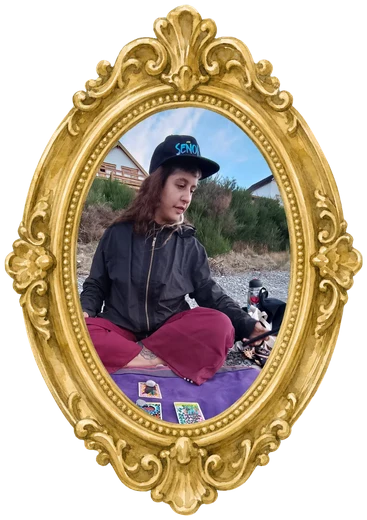
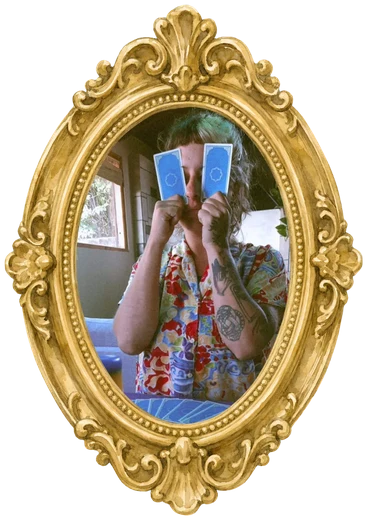
Bios finales y botón debajo de Anotarme

Changed region(s): [[0.2098, 0.1846, 0.8093, 0.8308]]

diff --git a/index.html b/index.html
@@ -86,7 +86,8 @@ footer a{color:var(--marino)}
 footer{display:flex;align-items:center;justify-content:flex-end;gap:20px}
 footer .iso{width:96px;height:96px;flex:none}
 /* formulario */
-.acargo{font-family:'Special Elite',monospace;font-size:16px;background:none;border:0;padding:0;margin:4px 0 2px;color:inherit;text-decoration:underline;text-underline-offset:3px;cursor:pointer;text-align:left}
+.accion{display:flex;flex-direction:column;align-items:center;gap:12px}
+.acargo{font-family:'Special Elite',monospace;font-size:15px;line-height:1.35;background:none;border:0;padding:0;color:inherit;text-decoration:underline;text-underline-offset:3px;cursor:pointer;text-align:center}
 .acargo:focus-visible{outline:3px solid var(--dorado);outline-offset:3px}
 .bios h3{margin-bottom:6px}
 .bio{display:grid;grid-template-columns:150px 1fr;gap:20px;align-items:center;margin-top:22px}
@@ -126,7 +127,7 @@ input[type=text],input[type=email],input[type=tel]{width:100%;font:16px Archivo,
   .ronda{grid-template-columns:1fr;gap:10px;padding:14px 12px}
   .fecha{display:flex;gap:10px;align-items:baseline;text-align:left}
   .fecha .dia,.fecha .mes{font-size:16px}
-  .ronda .btn{grid-column:1 / -1;width:100%}
+  .ronda .accion{grid-column:1 / -1}.ronda .btn{width:100%}
   .fecha .num{font-size:38px}
   footer{text-align:left}
   footer{justify-content:flex-start}
@@ -235,7 +236,7 @@ const mesa=h=>h.replace(/Mesa de Tarot/g,'<a href="https://mesadetarot.com" targ
 
 /* Tarotistas: la ficha de cada una. En rondas.json, «a_cargo» nombra a quienes están a cargo con su @ (por ejemplo "@lorenabroda y @shuli.magiapalabra"). */
 const TAROTISTAS={
-  "lorenabroda":{nombre:"Lola",foto:"img/lorena.webp",bio:"Consultora psicológica, programadora y tarotista. Me gusta nutrirme de muchas miradas para encontrar la mía: ese es el espíritu de la Ronda. Leo Tarot Revelado, que recupera el misticismo del Tarot como un lenguaje para dialogar con algo más grande que nosotras. Ahí, mi función como tarotista es ser canal. El Tarot trae claridad: corre con cuidado los velos de lo que nos da miedo ver, y así nos empodera."},
+  "lorenabroda":{nombre:"Lola",foto:"img/lorena.webp",bio:"Consultora psicológica, programadora y tarotista. Me nutro de muchas miradas para encontrar la mía: ese es el espíritu de la Ronda. Leo Tarot Revelado, que recupera el misticismo del Tarot como un lenguaje para dialogar con algo más grande que nosotras. Ahí, mi función como tarotista es ser canal. El Tarot trae claridad: corre con cuidado los velos de lo que nos da miedo ver, y así nos empodera."},
   "shuli.magiapalabra":{nombre:"Shuli",foto:"img/shuli.webp",bio:"Soy tarotista, instructora de yoga y educadora. Me apasiona compartir con otros seres los saberes que me atraviesan y acompañan. Hago Tarot evolutivo y terapéutico: entiendo los oráculos como formas de acceder a nuestro inconsciente y de recibir mensajes que sean llave, guía, farol."}
 };
 const aCargo=r=>((r.a_cargo||"").match(/@[\w.]+/g)||[]).map(h=>h.slice(1)).filter(h=>TAROTISTAS[h]);
@@ -268,9 +269,9 @@ function render(){
         ${r.cobro==="sena"?`<li>Para inscribirte dejás una seña de ${esc(r.monto)}; el resto se abona en el lugar.</li>`:r.cobro==="total"?`<li>Se paga al inscribirte${r.pago_usd?`: en pesos con Mercado Pago o, desde otro país, ${esc(r.monto_usd)} con PayPal`:""}.</li>`:""}
         ${r.tipo==="online"?`<li>Necesitás tu mazo a mano. ¿No tenés y no sabés cuál comprar? <a href="${WA_MAZO}" target="_blank" rel="noopener" style="color:inherit">Escribinos y te ayudamos a elegir</a>.</li>`:""}
         </ul>
-        ${aCargo(r).length?`<button type="button" class="acargo" onclick="quienes('${r.id}')">¿Quién está a cargo de esta ronda?</button>`:r.a_cargo?`<p>A cargo: ${esc(r.a_cargo)}</p>`:""}
+        ${!aCargo(r).length&&r.a_cargo?`<p>A cargo: ${esc(r.a_cargo)}</p>`:""}
         <p class="cupos">${lleno?"Sin lugares":(SCRIPT_URL?libres+(libres===1?" lugar disponible":" lugares disponibles"):r.cupos+" lugares")}</p></div>
-      <button class="btn" ${lleno?"disabled":""} onclick="abrir('${r.id}')">${lleno?"Completa":"Anotarme"}</button>
+      <div class="accion"><button class="btn" ${lleno?"disabled":""} onclick="abrir('${r.id}')">${lleno?"Completa":"Anotarme"}</button>${aCargo(r).length?`<button type="button" class="acargo" onclick="quienes('${r.id}')">¿Quién está a cargo<br>de esta ronda?</button>`:""}</div>
     </article>`}).join("");
 }
 
